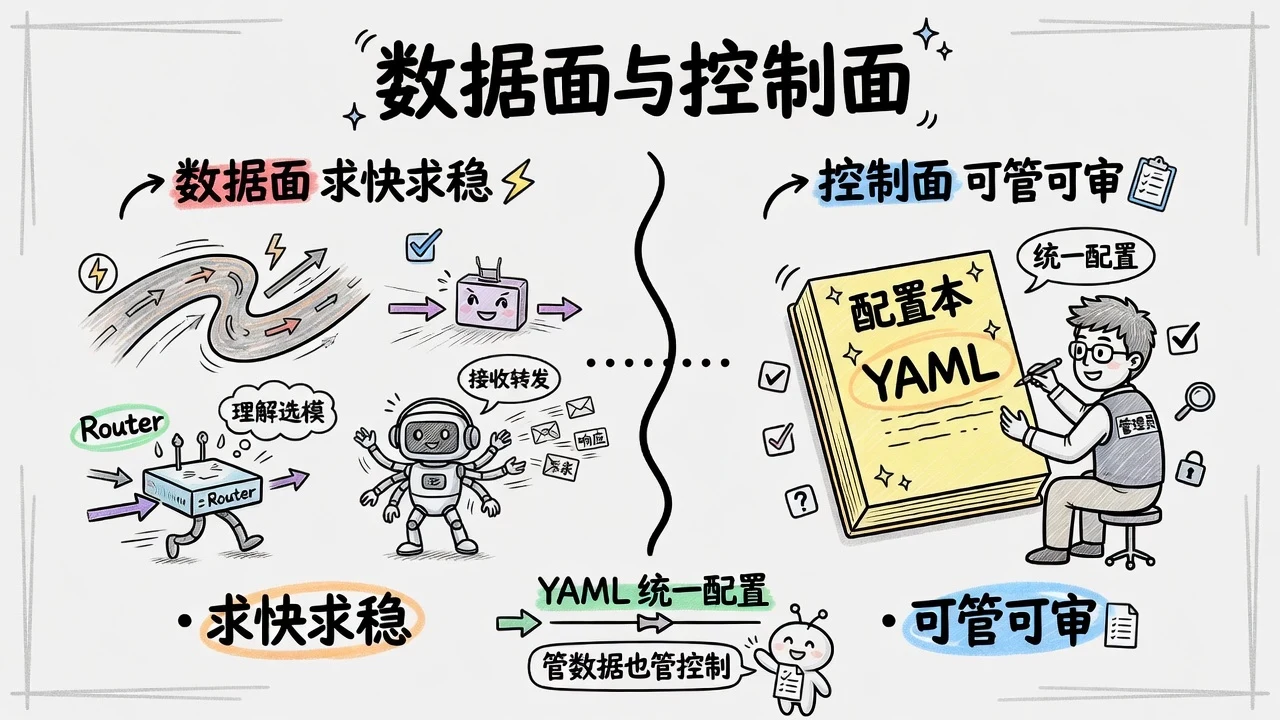
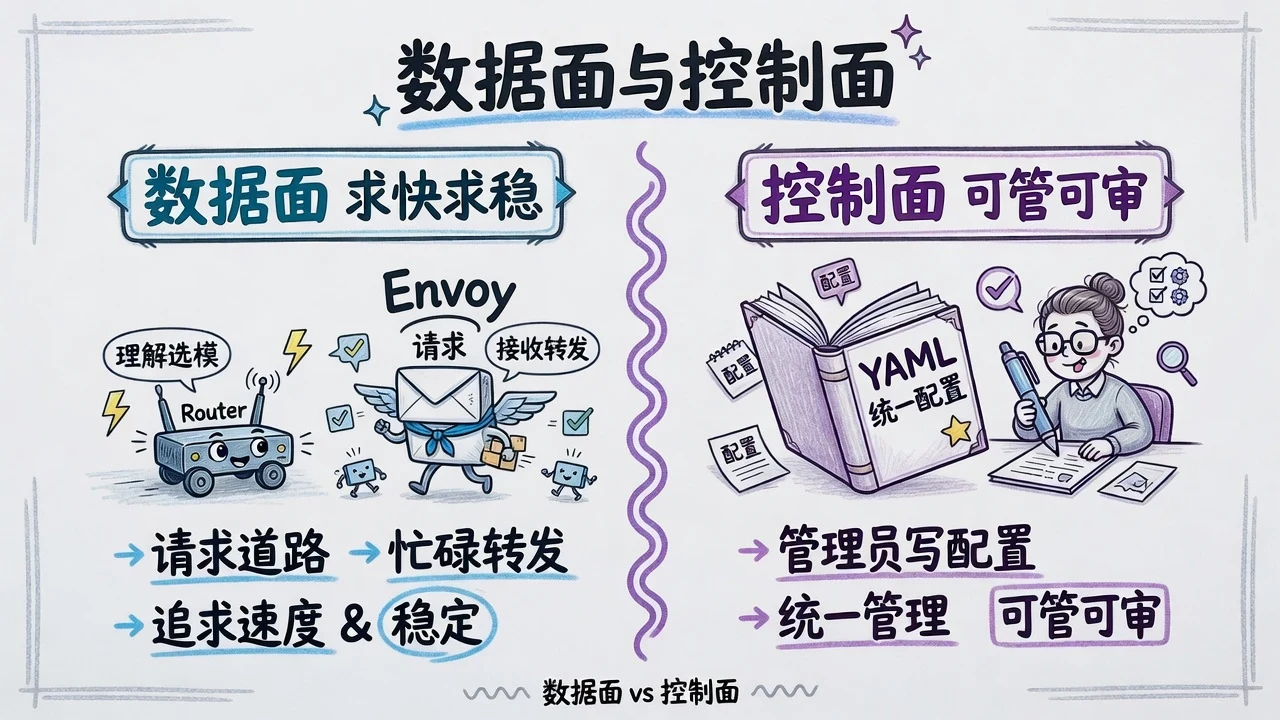
docs: 调整 vLLM Semantic Router 数据面与核心组件配图
说清 Signal 提取事实、Projection 汇总结果，并让数据面对照图铺满画面。处理流程概览改到 mermaid 总结之后。

diff --git a/docs/docs/1000-AI技术/600-推理服务/10000-vLLM Semantic Router：面向混合模型的智能推理路由.md b/docs/docs/1000-AI技术/600-推理服务/10000-vLLM Semantic Router：面向混合模型的智能推理路由.md
@@ -226,7 +226,7 @@ flowchart LR
 
 ### 核心组件
 
-![核心组件各管一事：Entrypoint、Signal、Decision、Algorithm、Plugin、Provider](<assets/vLLM Semantic Router：面向混合模型的智能推理路由/image-6.webp>)
+![核心组件各管一事：Signal 提取图、售后、隐私，Projection 汇总成复杂](<assets/vLLM Semantic Router：面向混合模型的智能推理路由/image-6.webp>)
 
 `vLLM Semantic Router`包含以下组件：
 
@@ -335,9 +335,6 @@ flowchart LR
 
 ### 一次请求的处理流程
 
-![请求处理六步：Entrypoint、Signal、Decision、Algorithm、Plugin、Provider](<assets/vLLM Semantic Router：面向混合模型的智能推理路由/image-4.webp>)
-
-
 ```mermaid
 flowchart TD
     A["客户端请求<br/>model = vllm-sr/auto"] --> B["Envoy接收请求"]
@@ -357,7 +354,7 @@ flowchart TD
 
 初次阅读时，记住这条缩短后的链路即可：**公开模型名找到处理方案，信号描述事实，决策生成合格名单，算法选择模型，插件完成附加处理。**
 
-
+![请求处理六步：Entrypoint、Signal、Decision、Algorithm、Plugin、Provider](<assets/vLLM Semantic Router：面向混合模型的智能推理路由/image-4.webp>)
 
 ## 安装与启动
 
